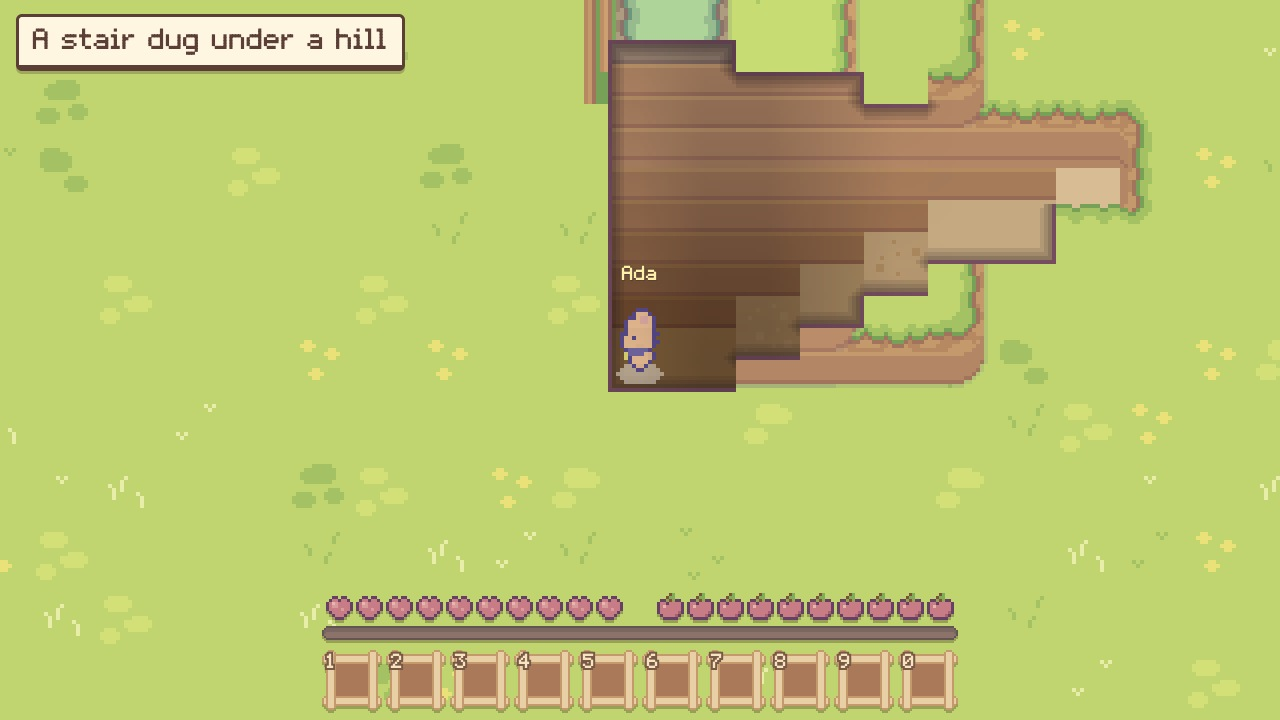
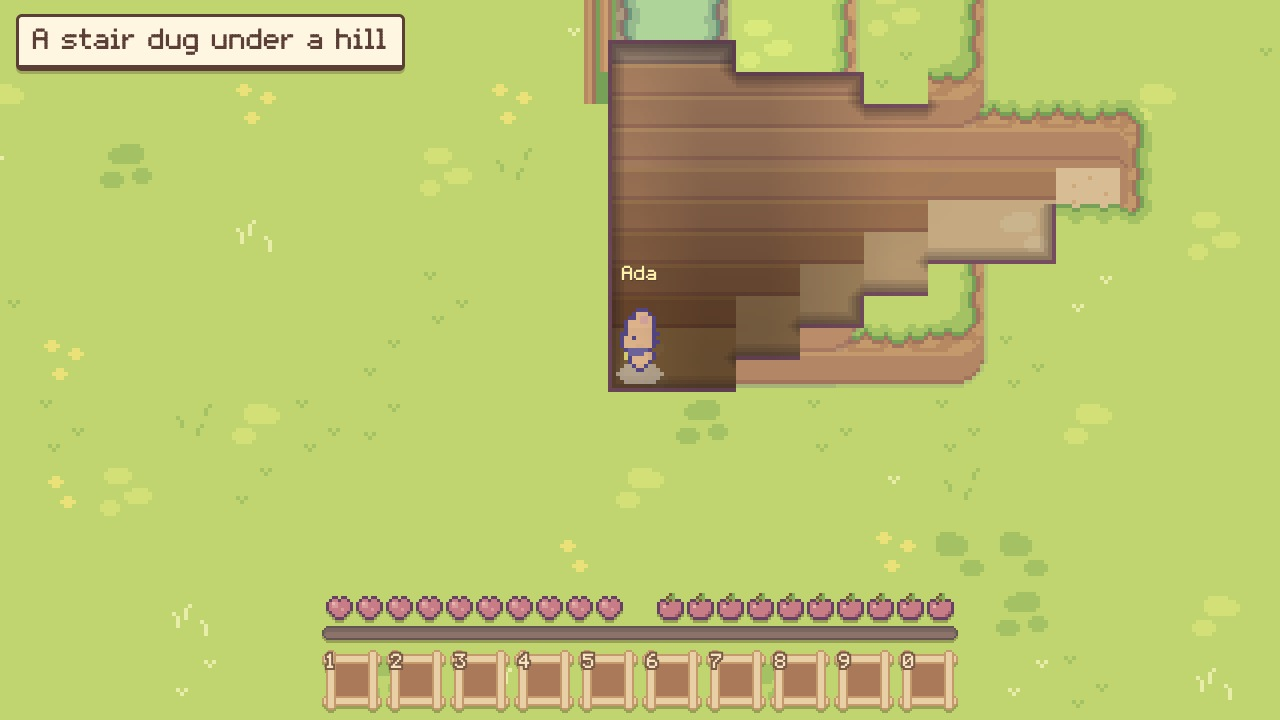
feat(web): a pit's rim ends where the ground in front is cut through
A pit's rim ends where the ground in front is cut through ("weird left border")

At a pit's corner the land's rim turns to run on along the tile in front. Where that tile is cut through to show
you, the turn was left beside the cut: the rim's end curled in, a tuft of grass under it, then the line. The tile at
the corner is drawn without the turn, its shape too (relief.js R.fill), as it already was behind a roof: one rule
for both. The rim ends flat, the line runs from there to the foot of the cut.

Claude-Session: https://claude.ai/code/session_011zaXs2MUMAd8vYwC7YncED

diff --git a/src/megastructure/web/js/xray.js b/src/megastructure/web/js/xray.js
@@ -196,25 +196,31 @@ function* xrayPicture(tx, key, near) {
     peek = floor;
     for (const key of floor.keys()) { const [x, ty] = key.split(",").map(Number), i = x - R.x, j = ty - R.y; if (i >= 0 && i < w && j >= 0 && j < R.h) drawTile(x, ty, {px: ground, o: j * 16 * W + i * 16, w: W}); }
     rectLevels(R, "lk");
-    // (...but for the corner the land's edge turns in a tile beside a roofed floor, where a part of the place open to
-    // the sky is beside that floor too: on the land the hole's rim turns there, to run on down the roof's side. That
-    // side is cut away, and the turn was left over the corner of the cut, a wedge of earth: "tile transition is
-    // broken there". That tile is drawn without it: the rim ends where the cut starts)
-    for (const key of floor.keys()) {
-      const [fx, fy] = key.split(",").map(Number);
-      for (const [ax, ay] of [[1, 0], [-1, 0], [0, 1], [0, -1]]) {
-        const x = fx + ax, ty = fy + ay, i = x - R.x, j = ty - R.y, q = j * w + i, lv = topAt(x, ty), flat = new Map();
-        if (i < 0 || i >= w || j < 0 || j >= R.h || floors.has(x + "," + ty) || edged.includes(q)) continue;
-        for (const s of [-1, 1]) {                          // (the two tiles beside the floor that are at this tile's corners)
-          const dx = fx + s * ay, dy = fy + s * ax, d = dx + "," + dy;
-          if (floors.get(d) < 0 && !floor.has(d) && topAt(x + s * ay, ty + s * ax) >= lv) flat.set(d, lv);
-        }
-        if (!flat.size) continue;
-        peek = flat; drawTile(x, ty, {px: ground, o: j * 16 * W + i * 16, w: W}); edged.push(q);
-      }
-    }
     peek = null;
   }
+  // (...but for the corner the land's edge turns in a tile that is at a corner of a part of the place open to the sky,
+  // where one of the two tiles between them is cut away: a floor under a roof, or ground in front that you are seen
+  // through. On the land the hole's rim turns there, to run on along that tile; it is gone, and the turn was left
+  // beside the cut: a wedge of earth over its corner ("tile transition is broken there"), a rim's end curled in with
+  // a tuft of grass under it, beside the line ("weird left border"). That tile is drawn without it: the rim ends
+  // where the cut starts)
+  const flats = new Map(), gone = (x, ty) => floor.has(x + "," + ty) || rock(x, ty);
+  for (const [key, lp] of floors) if (lp < 0 && !floor.has(key)) {
+    const [px, py] = key.split(",").map(Number);
+    for (const sx of [-1, 1]) for (const sy of [-1, 1]) {
+      const x = px + sx, ty = py + sy, i = x - R.x, j = ty - R.y, lv = topAt(x, ty);
+      if (i < 0 || i >= w || j < 0 || j >= R.h || floors.get(x + "," + ty) < 0 || floor.has(x + "," + ty) || rock(x, ty) || topAt(px, ty) < lv || topAt(x, py) < lv || !(gone(px, ty) || gone(x, py))) continue;
+      if (!flats.has(j * w + i)) flats.set(j * w + i, new Map());
+      flats.get(j * w + i).set(key, lv);
+    }
+  }
+  if (flats.size) R.fill = new Uint8Array((w + 4) * (R.h + 4));   // (its shape too: relief.js)
+  for (const [q, flat] of flats) {
+    const i = q % w, j = q / w | 0;
+    for (const key of flat.keys()) { const [px, py] = key.split(",").map(Number); R.fill[(j + 2) * (w + 4) + i + 2] |= py < R.y + j ? (px > R.x + i ? NE : NW) : px > R.x + i ? SE : SW; }
+    peek = flat; drawTile(R.x + i, R.y + j, {px: ground, o: j * 16 * W + i * 16, w: W}); edged.push(q);
+  }
+  peek = null;
   const see = {keep: new Uint8Array((w + 4) * (R.h + 4)), c0: y - R.y * 16, c1: y - R.y * 16 + h, state: new Uint8Array(W * h), lev: new Int8Array(W * h), band: new Uint8Array(W * h), cover: new Uint8Array(W * h), wet: new Uint8Array(W * h)};
   const rocks = new Uint8Array(w * R.h);
   for (let j = -2; j < R.h + 2; j++) for (let i = -2; i < w + 2; i++) {

diff --git a/src/megastructure/web/js/xraycut.js b/src/megastructure/web/js/xraycut.js
@@ -46,10 +46,6 @@ function xrayCut({W, h, w, R, y, see, seen, floor, floors, place, rocks, paint})
     cols.set((R.x + i) + "," + (R.y + j), [i * 16, r0 - 3, top + 16]); r0T[t] = r0;
     for (let r = Math.max(0, r0 - 3); r < Math.min(h, top + 16); r++) for (let f = r * W + i * 16, e = f + 16; f < e; f++) {
       const back = roofed && r >= r0 && r < top, put = fill[f] || see.state[f] === 1;   // (back: over the floor of a tile under a roof: the wall behind it, whatever was painted)
-      if (roofed && r < r0 && see.state[f] === 1 && see.band[f] === 1 && tileOf(f, 4) === t) {   // (under a roof the cut starts on the tile's line: a px of
-        const up = wall.get(f - W) || (see.state[f - W] === 1 && !see.band[f - W] ? [paint[f - W] & 255, paint[f - W] >> 8 & 255, paint[f - W] >> 16 & 255] : null);   //  wall over it, where the corner of the tile behind is rounded off on the land, is that tile's ground, as over it)
-        if (up) wall.set(f, up);
-      }
       if ((!put && !back) || (r < r0 && (roofed || see.band[f] !== 1))) continue;       // (over a tile's line: the set-in top of a wall the land painted, of a tile open to the sky; under a roof the cut starts on the line)
       if (put && !fill[f]) {                                 // (of what was painted there: the place's floors, and the wall behind this tile, its bands and
         const ts = tileOf(f), tf = tileOf(f, 4);            //  what shows between them of the tile behind, painted a level down; not land that stands in front

diff --git a/src/megastructure/web/js/relief.js b/src/megastructure/web/js/relief.js
@@ -101,6 +101,7 @@ function levelShape(R, k, shape, ta, tb, keep, of) {
       m = 0;
       if (at[j - Ws]) m |= N_; if (at[j + 1]) m |= E_; if (at[j + Ws]) m |= S_; if (at[j - 1]) m |= W_;
       if (at[j - Ws + 1]) m |= NE; if (at[j + Ws + 1]) m |= SE; if (at[j + Ws - 1]) m |= SW; if (at[j - Ws - 1]) m |= NW;
+      if (R.fill) m |= R.fill[j];                        // (xray.js: a corner of it that is whole in the picture, where the land rounds it off toward a hole)
       if (m !== 255 || !whole) edge.push(o);
     }
     const plain = m === 255 && whole && !of;                // (a run of whole tiles side by side is filled a row of px at a time)

diff --git a/tests/e2e/test_e2e_underground.py b/tests/e2e/test_e2e_underground.py
@@ -199,3 +199,26 @@ def test_a_wall_under_a_roof_has_its_bands_where_the_pit_beside_it_has_them(game
     assert game.js(LIT, [X, y, 0, 0, 4]) < .04 and abs(game.js(LIT, [X + 1, y, 0, 8, 4]) - game.js(LIT, [X + 1, y, -4, 8, 8])) < .06   # the light: no step where the roof starts; the wall as its floor, a tile on
     assert not game.errors
 
+
+def test_the_rim_of_a_pit_ends_where_the_ground_in_front_is_cut_through(game):
+    """"Weird left border": a tile dug a layer down at the foot of a cliff, a terrace in front of it, and beside it a
+    tile dug under the higher ground. The terrace is cut through to show you; on the land the pit's rim turns at that
+    corner to run on along the terrace, and the turn was left beside the cut: the rim's end curled in, a tuft of
+    grass under it, then the line. The tile at that corner is drawn without the turn, its shape too: the rim ends
+    flat where its tile ends, and the line runs from there to the foot of the cut."""
+    game.clear_area(12)
+    x, y = game.pos()
+    game.rpc("dev_time", phase=.4)
+    game.stamp(-8, -6, ["." * 17] * 6, levels=["2" * 17] * 6)          # higher ground north: a cliff
+    game.stamp(0, 1, ["." * 6] * 5, levels=["1" * 6] * 5)              # a terrace in front, from the pit's column on
+    game.stamp(1, 0, ["."], levels=["2"])
+    game.stamp(0, 0, [".."], levels=["aa"], roofs=["03"], heads=["02"])
+    game.rpc("dev_teleport", x=x, y=y, z=-1)
+    game.wait(f"myAt && myAt.x === {x} && myAt.z === -1", 8000)
+    game.wait(DRAWN, 8000); game.wait(SEEN, 20000); game.wait("xray.mix >= 1 && !xray.old", 8000)
+    for ax in (12, 15):                                      # the meadow tile at the pit's corner: meadow to its own corner (the rim's turn was there)
+        for r, g, b in game.js(DOWN, [x - 1, y + 1, ax, 0, 4]): assert g >= r, (ax, r, g, b)   # (no earth)
+    line = lambda ay: game.js("([x, y, ay]) => { const P = xray.pic; return P.line[(y * 16 + 8 + ay - P.y) * P.w + x * 16 - P.x]; }", [x, y, ay])
+    assert not line(3) and line(8) and line(11) and line(15)  # down the floor's west side: the pit's own rim beside it, then the line to its foot
+    assert not game.errors
+

diff --git a/JOURNAL.md b/JOURNAL.md
@@ -2256,4 +2256,22 @@ not its body).
   not rock and not seen through, and the second step has its line down its side; the stair test said every step was
   seen whole: every step but the first. The new test of the seam read the screen while one picture was still coming
   over another, once, on a loaded machine: it waits for the picture to be whole.
+- Then a photo of a screen: "Weird left border". The player ("test") is not in the local save nor in its events:
+  the online demo, whose world I cannot read. Rebuilt from the photo on a throwaway world, three tries until the
+  left side matched (a tile dug a layer down at the foot of a cliff, a terrace a layer up in front of it from its
+  own column on, beside it a tile dug under the higher ground). What is there, a px at a time: the pit's own rim down
+  its west side (the land's), then, where the terrace in front is cut through, the rim's end curled in with a tuft
+  of grass under it, then the line. That turn is the land's: at the pit's corner its rim turns to run on along the
+  terrace; the terrace is gone, the turn was left. The same thing as the wedge behind a roof ("tile transition is
+  broken there"), at a corner in front.
+- One rule for both (xray.js): a tile at a corner of a part of the place open to the sky, where one of the two tiles
+  between them is cut away (a floor under a roof, or ground in front that you are seen through), is drawn without
+  the turn. And its shape with it (relief.js, R.fill: the corner whole): the art alone left two px of the pit's side
+  in the notch of the shape; so the px I had put right by hand behind a roof (xraycut.js) is gone too. The rim ends
+  flat where its tile ends, the line runs from there to the foot of the cut. The meadow beside a pit is of your
+  place (you can step onto it): my first try passed over every tile of the place and changed nothing.
+- Left as it is: the side of a roof that is cut away still shows on the land beside the cut (its ledge, four px,
+  where it meets a cliff). Not what the photo shows; noted.
+- Test: at that corner the meadow tile is meadow to its own corner, and the line runs down the floor's side from the
+  rim's end to its foot. It fails on the code before.
 
